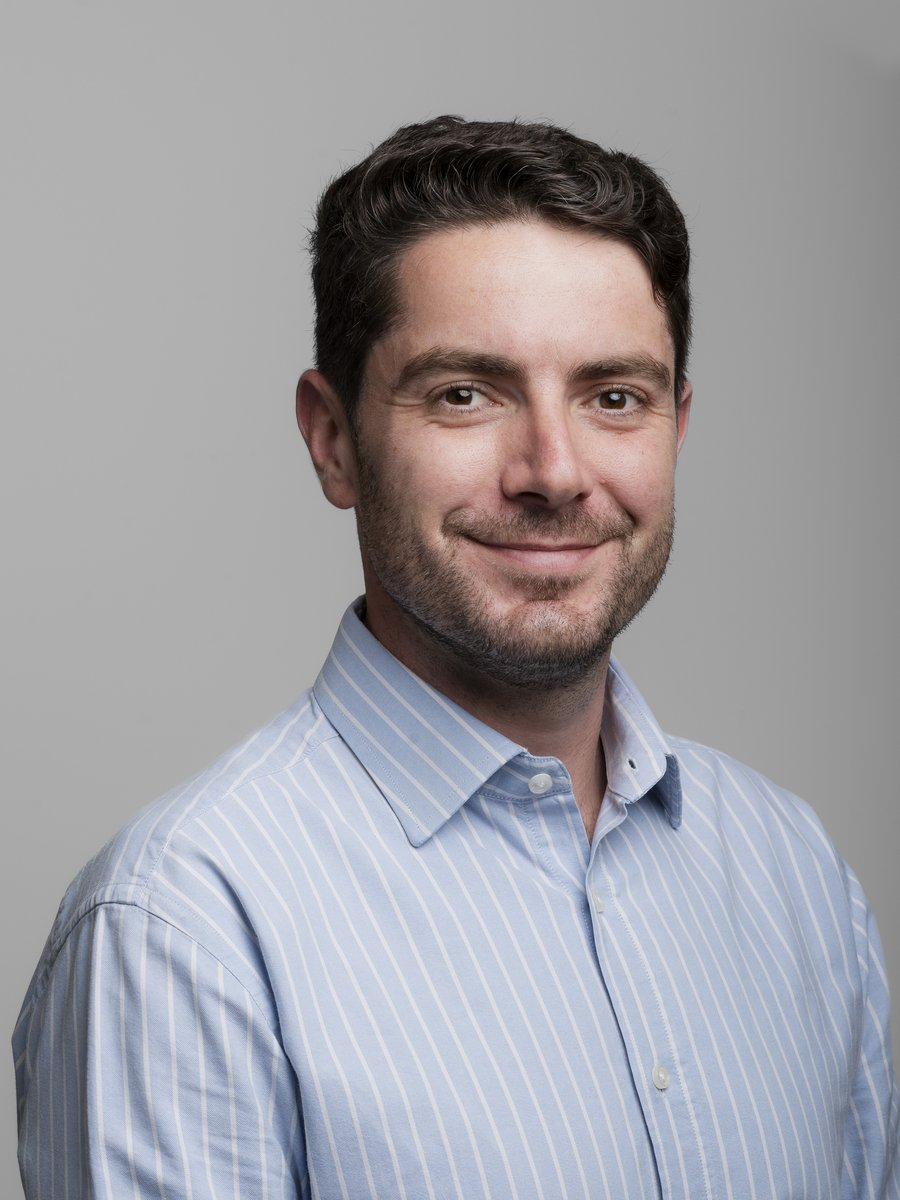
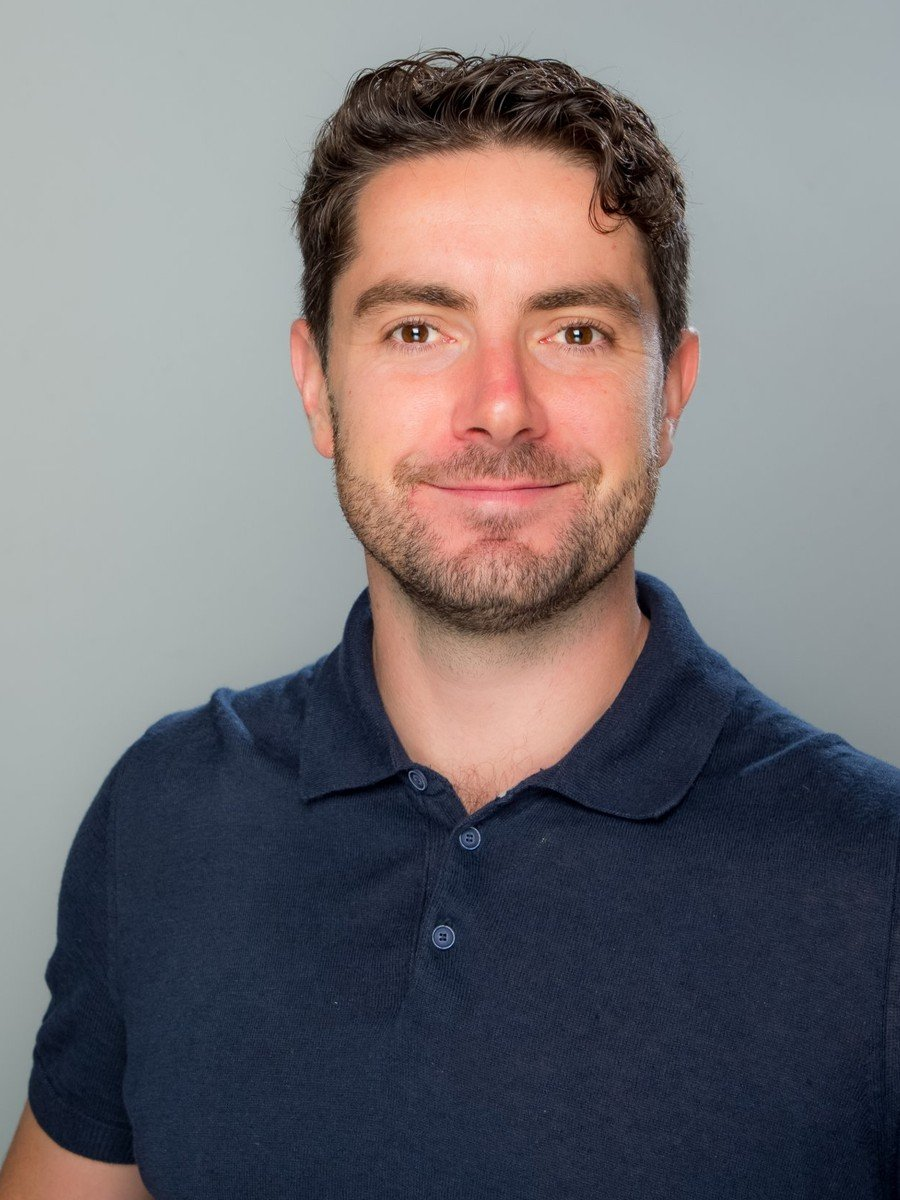
Add files via upload

diff --git a/cv.html b/cv.html
@@ -117,6 +117,13 @@
       <div class="eyebrow">Working Papers</div>
       <div class="ledger">
         <div class="ledger-row">
+          <div class="year">2026</div>
+          <div>
+            <div class="role"><a href="https://www.bancaditalia.it/pubblicazioni/qef/2026-1060/index.html" target="_blank" rel="noopener">Broeders, D., De Carolis, F., Di Paolo, S., Rang, K., Rubeo, L. &amp; Spuri, M. — "The Impact of US Hurricanes on the Portfolio Decisions of Italian and Dutch Institutional Investors"</a></div>
+            <div class="org">Banca d'Italia, Questioni di Economia e Finanza (Occasional Papers) No. 1060 · October 2026</div>
+          </div>
+        </div>
+        <div class="ledger-row">
           <div class="year">2025</div>
           <div>
             <div class="role"><a href="https://www.ecb.europa.eu/pub/pdf/scpwps/ecb.wp3069~93198181b2.en.pdf" target="_blank" rel="noopener">Bauer, R., Broeders, D. &amp; De Carolis, F. — "Local Institutional Ownership and Price Discovery around Extreme Weather Events"</a></div>

diff --git a/interests.html b/interests.html
@@ -78,6 +78,15 @@
       <div class="eyebrow">Working Papers</div>
       <div class="ledger">
         <div class="ledger-row">
+          <div class="year">2026</div>
+          <div>
+            <div class="role">
+              <a href="https://www.bancaditalia.it/pubblicazioni/qef/2026-1060/index.html" target="_blank" rel="noopener">Broeders, D., De Carolis, F., Di Paolo, S., Rang, K., Rubeo, L. &amp; Spuri, M. — "The Impact of US Hurricanes on the Portfolio Decisions of Italian and Dutch Institutional Investors"</a>
+            </div>
+            <div class="org">Banca d'Italia, Questioni di Economia e Finanza (Occasional Papers) No. 1060 · October 2026</div>
+          </div>
+        </div>
+        <div class="ledger-row">
           <div class="year">2025</div>
           <div>
             <div class="role">
